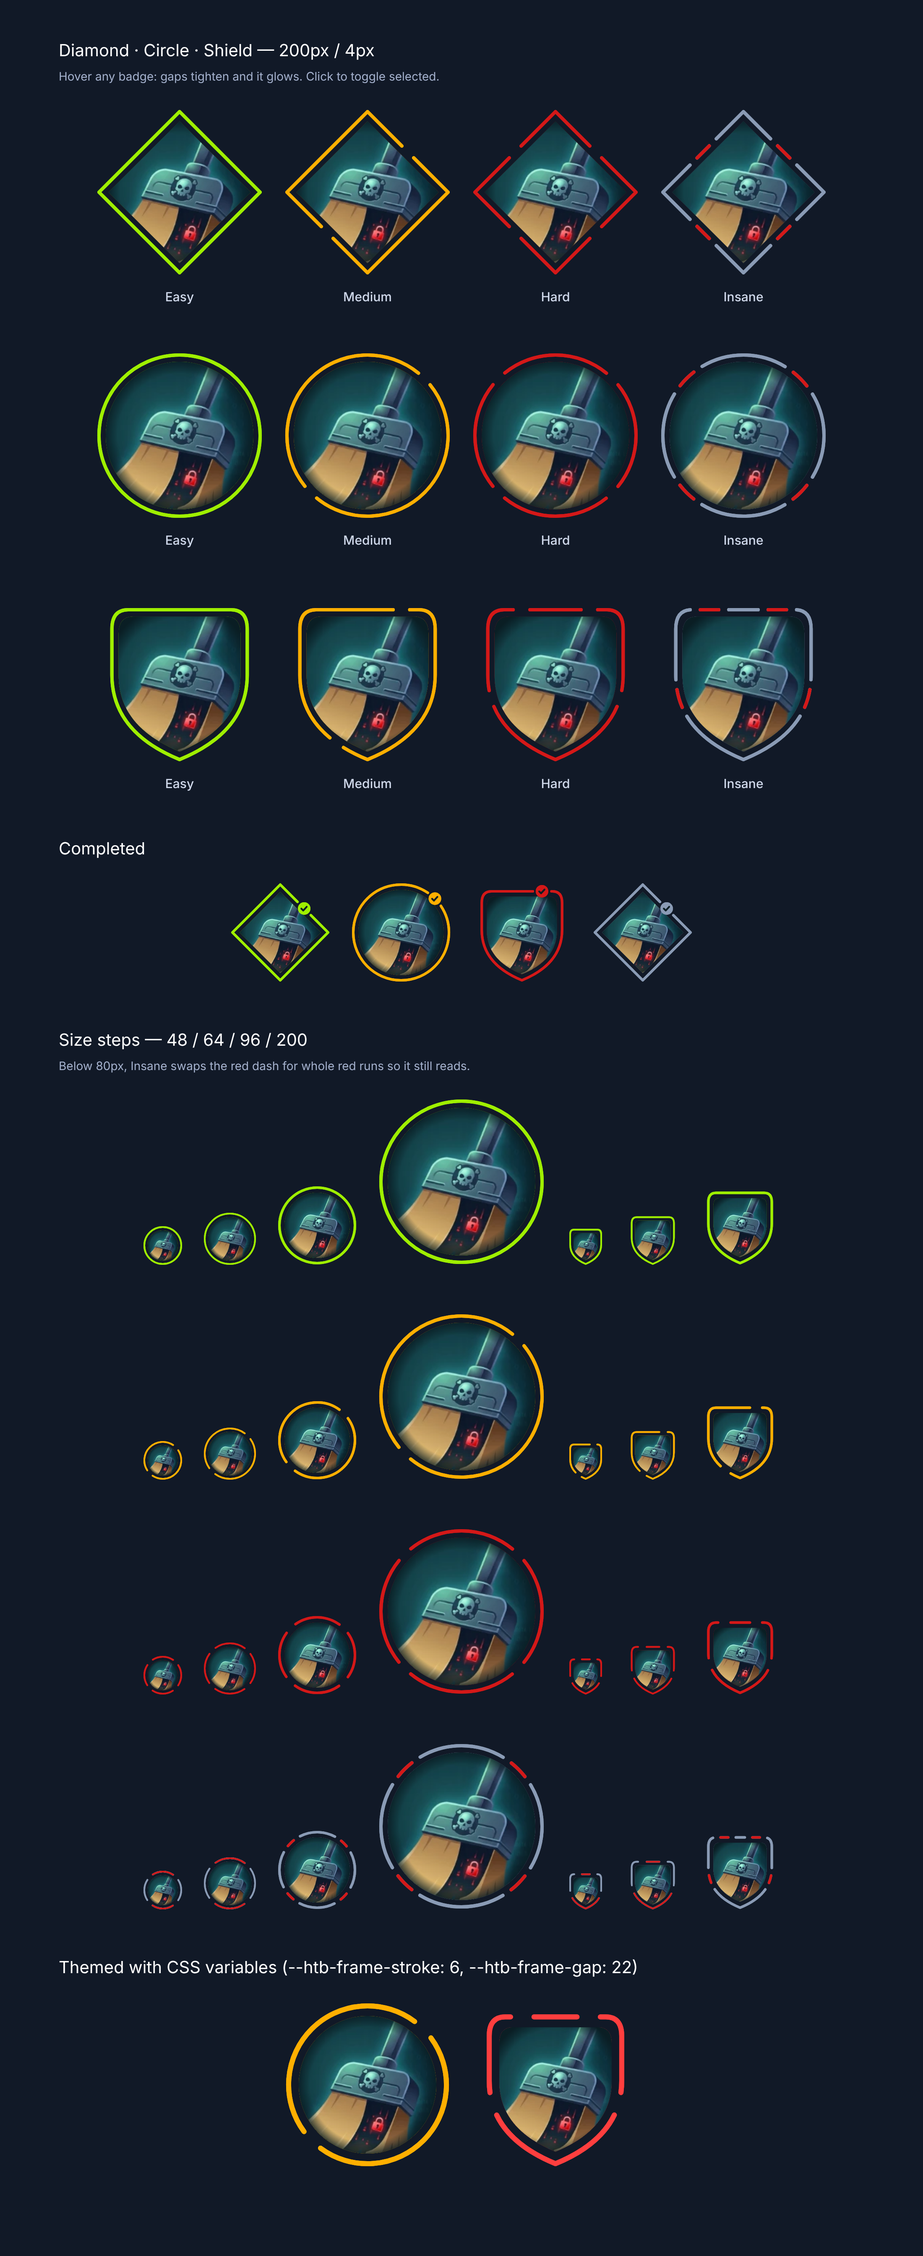
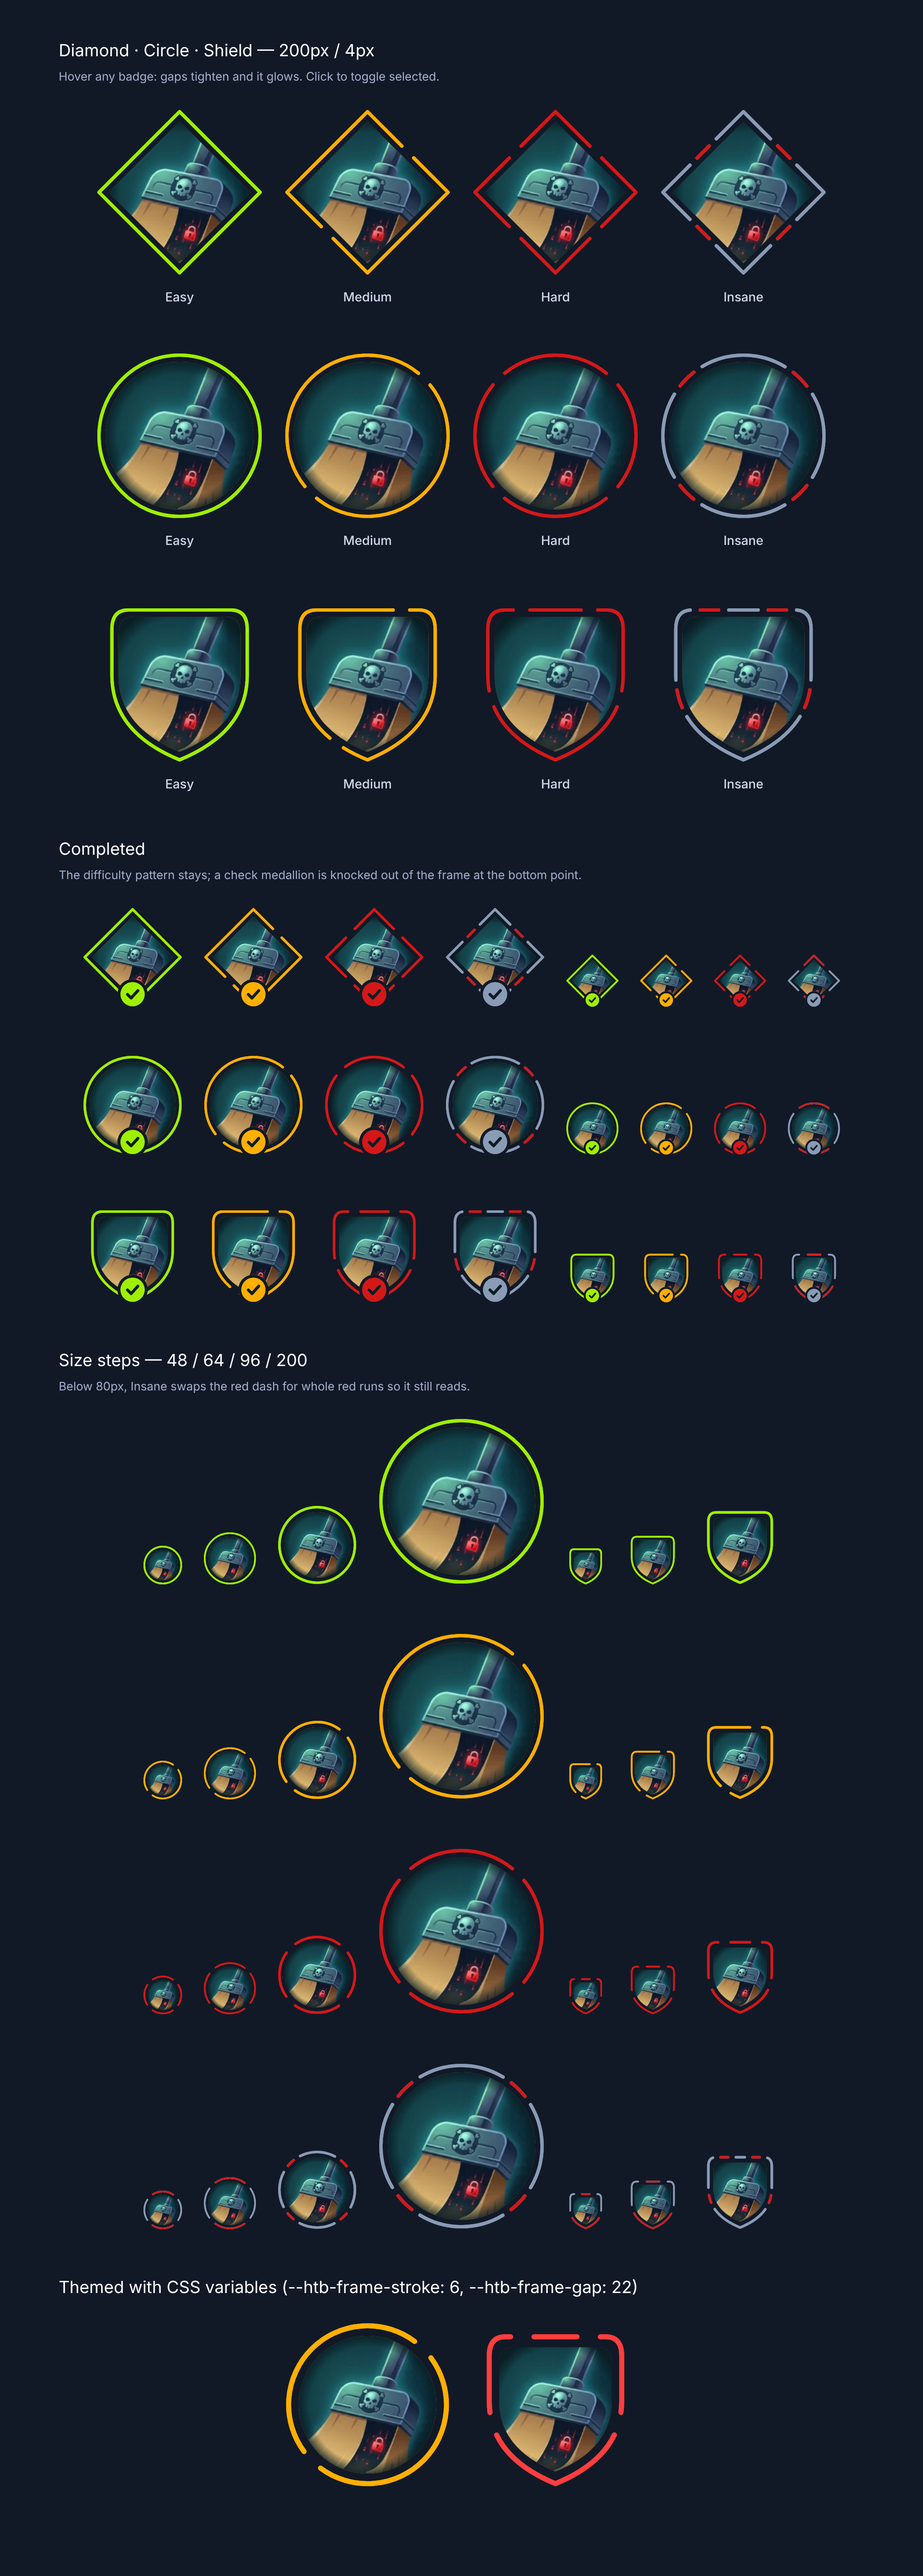
Rework completed state: keep difficulty pattern, knocked-out check medallion; cache break positions
Claude-Session: https://claude.ai/code/session_011nxYfuYnhHf6ffMbWhu3mX

diff --git a/components/difficulty-frame/difficulty-frame.js b/components/difficulty-frame/difficulty-frame.js
@@ -11,7 +11,7 @@
  *   stroke      border thickness in px              (default: from the size step)
  *   label       accessible name                     (default: "<Level> difficulty")
  *   selected    boolean — persistent highlight (same look as hover, stronger glow)
- *   completed   boolean — gaps close up and a check sits in the top-right break
+ *   completed   boolean — a check medallion sits at the bottom point, knocked out of the frame
  *   static      boolean — skip the draw-in animation
  *
  * Theming (CSS custom properties, set on the element or any ancestor)
@@ -106,6 +106,8 @@
 
   // Scale a -1..1 shape around centre c with radius r.
   const shapePath = (shape, c, r) => shape.path((x, y) => `${c + x * r} ${c + y * r}`, r);
+
+  const FRACTIONS = new Map();
 
   // Distance along `path` that points toward `bearing` from the centre.
   const lengthAtBearing = (path, c, bearing) => {
@@ -208,7 +210,10 @@
       const artR = r - stroke * ART_INSET * shape.ring;
       const color = COLOR[level];
       const id = `htb-clip-${Math.random().toString(36).slice(2, 9)}`;
-      const insane = level === 'insane' && !completed;
+      const insane = level === 'insane';
+      // Completed medallion: bottom edge lines up with the frame's bottom edge so it never spills out.
+      const medR = Math.max(size * 0.12, 8);
+      const med = { x: c, y: c + r + stroke / 2 - medR };
 
       this.style.setProperty('--glow', color);
       this.innerHTML = `
@@ -219,7 +224,12 @@
             <mask id="${id}-m" maskUnits="userSpaceOnUse" x="${-size}" y="${-size}" width="${size * 3}" height="${size * 3}">
               <path data-mask d="${shapePath(shape, c, r)}" fill="none" stroke="#fff" stroke-width="${stroke * 4}"/>
             </mask>
+            ${completed ? `<mask id="${id}-k" maskUnits="userSpaceOnUse" x="${-size}" y="${-size}" width="${size * 3}" height="${size * 3}">
+              <rect x="${-size}" y="${-size}" width="${size * 3}" height="${size * 3}" fill="#fff"/>
+              <circle cx="${med.x}" cy="${med.y}" r="${medR + Math.max(stroke * 1.25, 2)}" fill="#000"/>
+            </mask>` : ''}
           </defs>
+          <g ${completed ? `mask="url(#${id}-k)"` : ''}>
           <g ${animate ? 'data-art-in' : ''}>
             <path d="${shapePath(shape, c, artR)}" fill="var(--htb-frame-bg, #0b1e24)"/>
             ${src ? `<image href="${src}" x="${c - artR}" y="${c - artR}" width="${artR * 2}" height="${artR * 2}"
@@ -230,7 +240,13 @@
             <path data-line d="${shapePath(shape, c, r)}" stroke="${color}"/>
             ${insane ? `<path data-accent d="${shapePath(shape, c, r)}" stroke="${ACCENT}"/>` : ''}
           </g>
-          <g data-check></g>
+          </g>
+          ${completed ? `<g data-check ${animate ? 'data-art-in' : ''}>
+            <circle cx="${med.x}" cy="${med.y}" r="${medR}" fill="${color}"/>
+            <path d="M${med.x - medR * 0.42} ${med.y + medR * 0.02} L${med.x - medR * 0.12} ${med.y + medR * 0.32} L${med.x + medR * 0.44} ${med.y - medR * 0.3}"
+                  fill="none" stroke="var(--htb-frame-bg, #0b1e24)" stroke-width="${Math.max(medR * 0.24, 2)}"
+                  stroke-linecap="round" stroke-linejoin="round"/>
+          </g>` : ''}
         </svg>`;
 
       const line = this.querySelector('[data-line]');
@@ -245,22 +261,15 @@
         mask.addEventListener('animationend', () => line.parentNode.removeAttribute('mask'), { once: true });
       }
 
-      if (completed) {
-        // Gaps close; one opening stays at the first break to hold the check.
-        const checkR = Math.max(stroke * 2.5, 6);
-        setDash(line, gapsAt([0], total, checkR * 2 + stroke * 1.5, stroke));
-        const at = line.getPointAtLength(0);
-        this.querySelector('[data-check]').innerHTML = `
-          <circle cx="${at.x}" cy="${at.y}" r="${checkR}" fill="${color}"/>
-          <path d="M${at.x - checkR * 0.45} ${at.y + checkR * 0.02} l${checkR * 0.3} ${checkR * 0.3} l${checkR * 0.55} ${-checkR * 0.6}"
-                fill="none" stroke="var(--htb-frame-bg, #0b1e24)" stroke-width="${Math.max(checkR * 0.28, 1.5)}"
-                stroke-linecap="round" stroke-linejoin="round"/>`;
-        return;
-      }
-
       const bearings = shape.breaks[level];
       if (!bearings) return; // easy: solid line
-      const centres = bearings.map((b, i) => (i === 0 ? 0 : lengthAtBearing(line, c, b)));
+      // Break positions as a share of the outline don't change with size, so
+      // measure once per shape + level and reuse — measuring is the slow part.
+      const key = `${this.getAttribute('shape')}|${level}`;
+      if (!FRACTIONS.has(key)) {
+        FRACTIONS.set(key, bearings.map((b, i) => (i === 0 ? 0 : lengthAtBearing(line, c, b) / total)));
+      }
+      const centres = FRACTIONS.get(key).map((f) => f * total);
       const accent = this.querySelector('[data-accent]');
 
       if (insane && step.compact) {

diff --git a/components/difficulty-frame/index.html b/components/difficulty-frame/index.html
@@ -21,7 +21,8 @@
   <div id="large"></div>
 
   <h2>Completed</h2>
-  <div class="row" id="completed"></div>
+  <p class="note">The difficulty pattern stays; a check medallion is knocked out of the frame at the bottom point.</p>
+  <div id="completed"></div>
 
   <h2>Size steps — 48 / 64 / 96 / 200</h2>
   <p class="note">Below 80px, Insane swaps the red dash for whole red runs so it still reads.</p>
@@ -41,8 +42,9 @@
     document.getElementById('large').innerHTML = shapes.map((s) => `<div class="row">${levels.map((l) =>
       `<figure>${badge(`shape="${s}" difficulty="${l}"`)}<figcaption>${l[0].toUpperCase() + l.slice(1)}</figcaption></figure>`).join('')}</div>`).join('');
 
-    document.getElementById('completed').innerHTML = levels.map((l, i) =>
-      badge(`shape="${shapes[i % 3]}" difficulty="${l}" size="120" completed`)).join('');
+    document.getElementById('completed').innerHTML = shapes.map((s) => `<div class="row">${levels.map((l) =>
+      badge(`shape="${s}" difficulty="${l}" size="120" completed`)).join('')}${levels.map((l) =>
+      badge(`shape="${s}" difficulty="${l}" size="64" completed`)).join('')}</div>`).join('');
 
     document.getElementById('steps').innerHTML = levels.map((l) => `<div class="row">${[48, 64, 96, 200].map((n) =>
       badge(`shape="circle" difficulty="${l}" size="${n}"`)).join('')}${[48, 64, 96].map((n) =>
